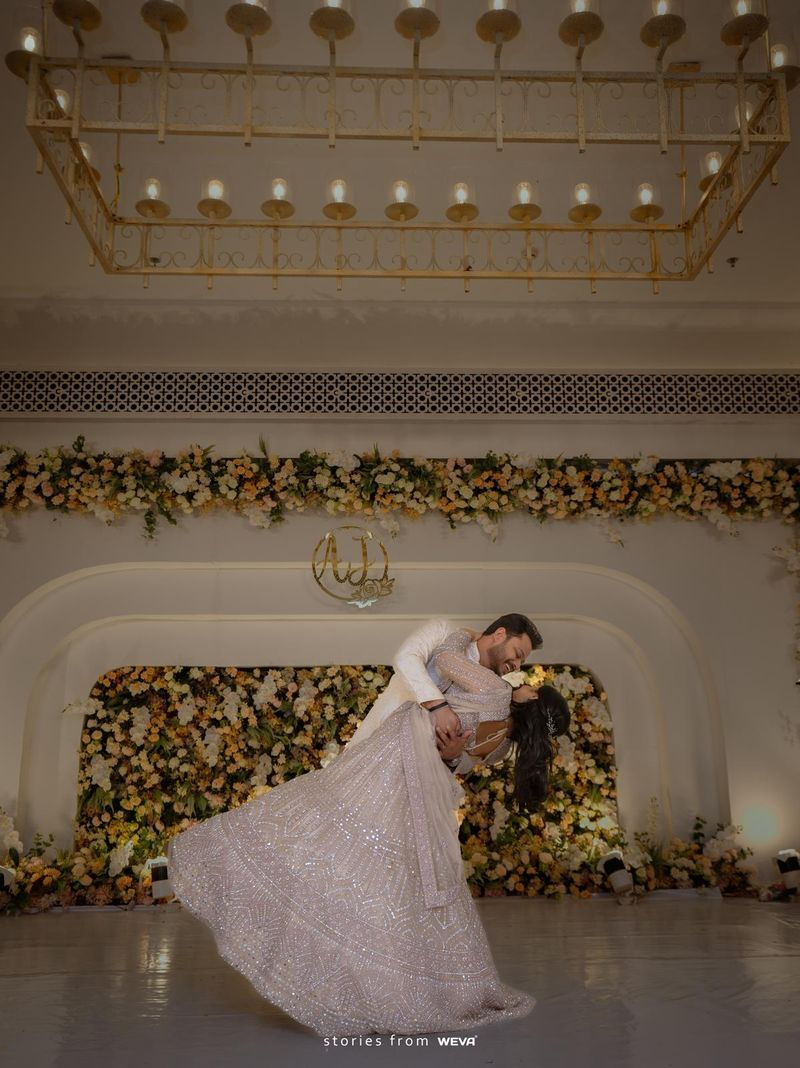
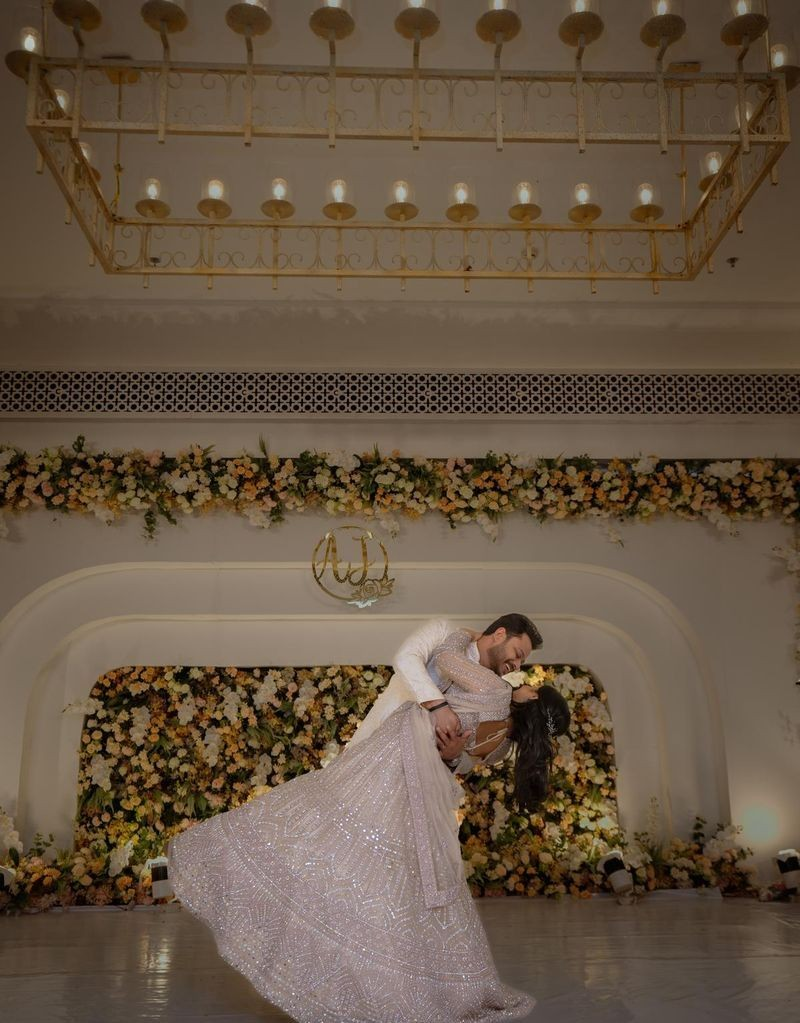
update: fix envelope animation order and update engagement photo
- Adjust envelope reveal animation timing so content appears before "Tap to reveal" prompt
- Replace img3.jpeg with newly cropped version

diff --git a/src/components/hero/EnvelopeReveal.tsx b/src/components/hero/EnvelopeReveal.tsx
@@ -133,12 +133,12 @@ export default function EnvelopeReveal({ onRevealed }: Props) {
       "-=0.3"
     );
 
-    // "Tap to reveal" fades in
+    // "Tap to reveal" fades in - appears last after all content
     tl.fromTo(
       tapPromptRef.current,
       { opacity: 0 },
       { opacity: 1, duration: 0.4, ease: "power1.out" },
-      "-=0.15"
+      "+=0.2"
     );
 
     return () => {
